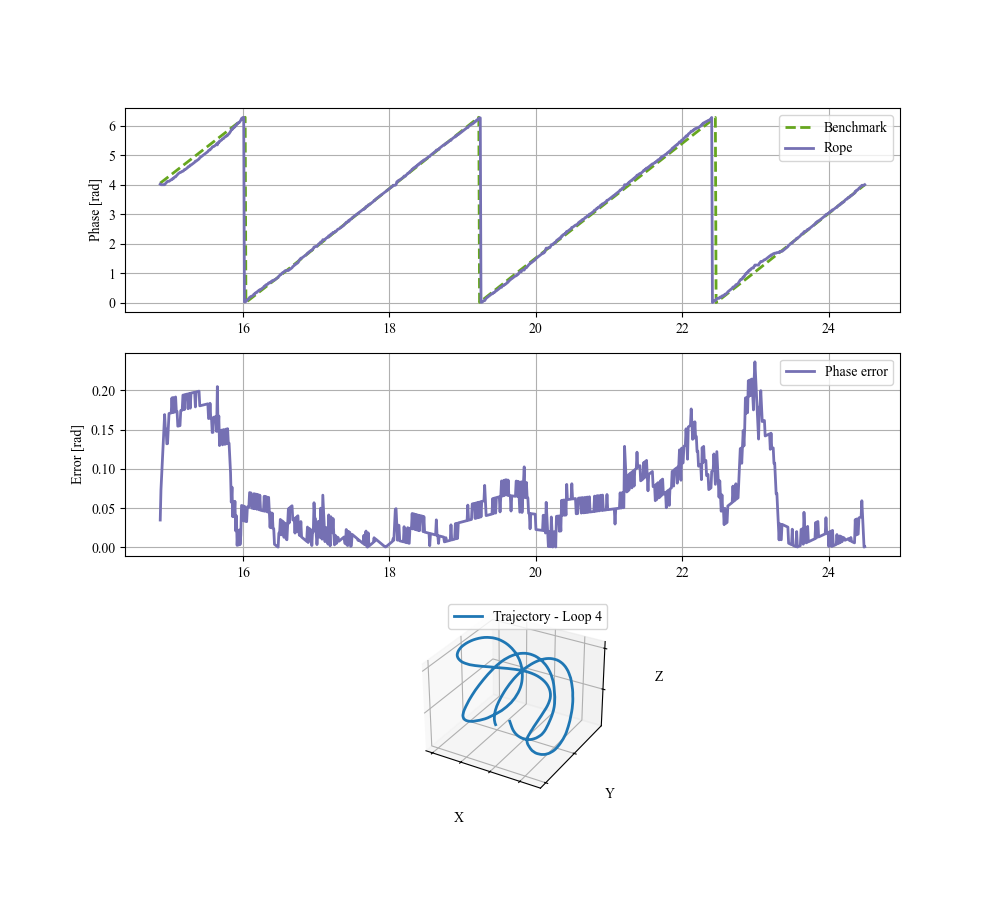
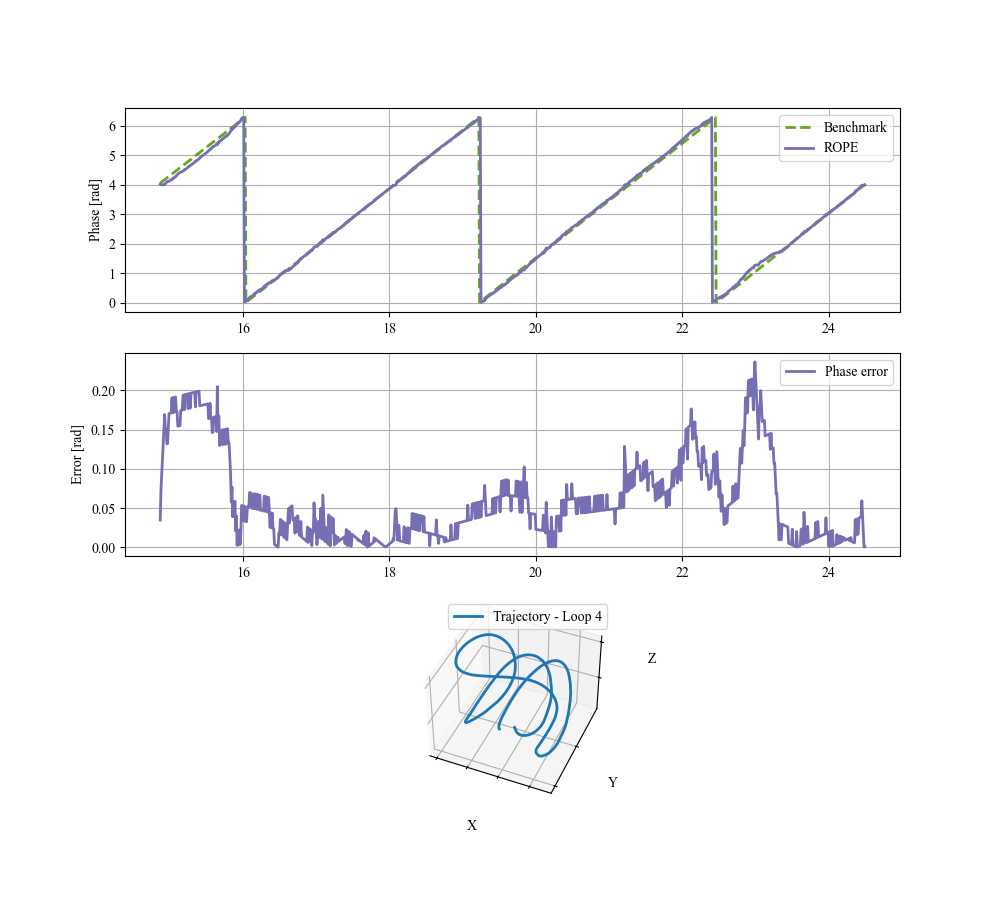
Update example script and figure

Changed region(s): [[0.403, 0.6844, 0.62, 0.9022], [0.837, 0.1556, 0.868, 0.1867]]

diff --git a/process_signal_example.py b/process_signal_example.py
@@ -126,7 +126,7 @@ ax1.plot(time_signal[idx_start:idx_end],
          color=colors[4], linewidth=2, linestyle='--', label='Benchmark')
 ax1.plot(time_signal[idx_start:idx_end],
          estimated_phase[idx_start:idx_end],
-         color=colors[2], linewidth=2, linestyle='-', label='Rope')
+         color=colors[2], linewidth=2, linestyle='-', label='ROPE')
 ax1.set_ylabel('Phase [rad]')
 ax1.legend()
 ax1.grid(True)
